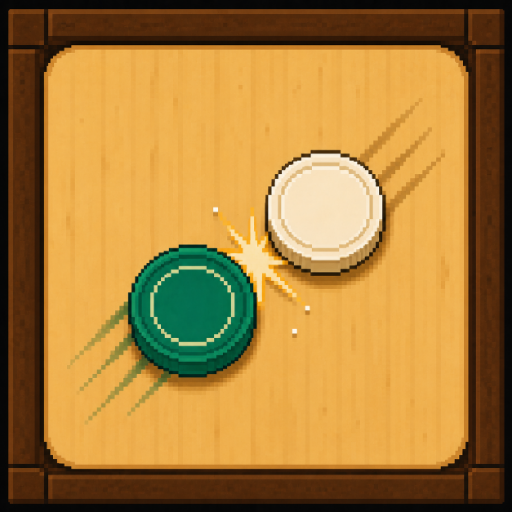
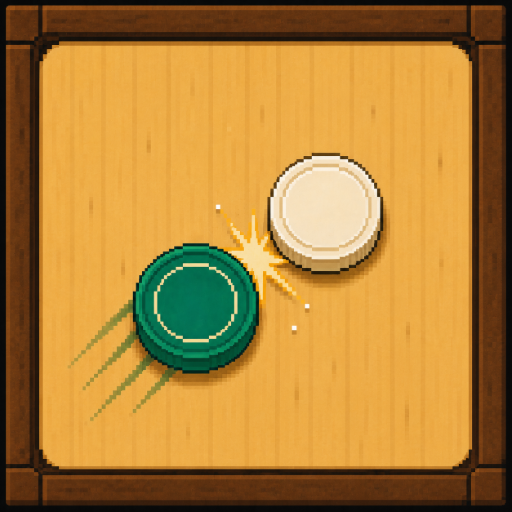
Icone de l'application : nouveau visuel, plateau complet
Le visuel retenu montre le plateau entier — cadre sombre, coins renforces,
tapis veine — avec le palet vert et le jeton clair a l'instant du choc.

Les huit tailles viennent d'une reduction de la source 1254 px (deux temps
sous 256 px) : elle est deja plus grande que le master 1024 px, et un
agrandissement n'aurait fait qu'etaler son flou de reechantillonnage.

Claude-Session: https://claude.ai/code/session_01P1kGgqf4yKwvjTgi27QtYv

diff --git a/visuels/app/README.md b/visuels/app/README.md
@@ -2,17 +2,18 @@
 
 Le visuel vient de toi (`source-1254.png`, 1254×1254) : le palet vert et le
 jeton clair à l'instant du choc, gerbe dorée entre les deux, lignes de
-vitesse derrière le palet, le tout sur le plateau de bois. Le cadre est
-carré et à fond perdu — c'est ce qu'il faut, les systèmes appliquant
-eux-mêmes leur masque arrondi.
+vitesse derrière le palet, le tout sur un plateau de bois vu en entier —
+cadre sombre, coins renforcés, tapis clair veiné. Le format est carré et à
+fond perdu, c'est ce qu'il faut : les systèmes appliquent eux-mêmes leur
+masque arrondi, qui vient rogner les quatre coins noirs.
 
 ## Sur la définition
 
 La source fait 1254 px de côté, soit plus que les 1024 px de la plus grande
 taille réclamée par les systèmes. **Aucun agrandissement n'était donc
 nécessaire**, et il aurait été contre-productif : l'image a été
-rééchantillonnée avant de m'arriver — 66 154 couleurs distinctes et
-seulement 13 ruptures franches sur toute la largeur, là où un vrai pixel art
+rééchantillonnée avant de m'arriver — 69 335 couleurs distinctes et
+seulement 26 ruptures franches sur toute la largeur, là où un vrai pixel art
 compte quelques dizaines de couleurs et une rupture à chaque bord de bloc.
 Autrement dit ses blocs sont légèrement flous, et l'agrandir n'aurait fait
 qu'étaler ce flou sans ajouter le moindre détail.
